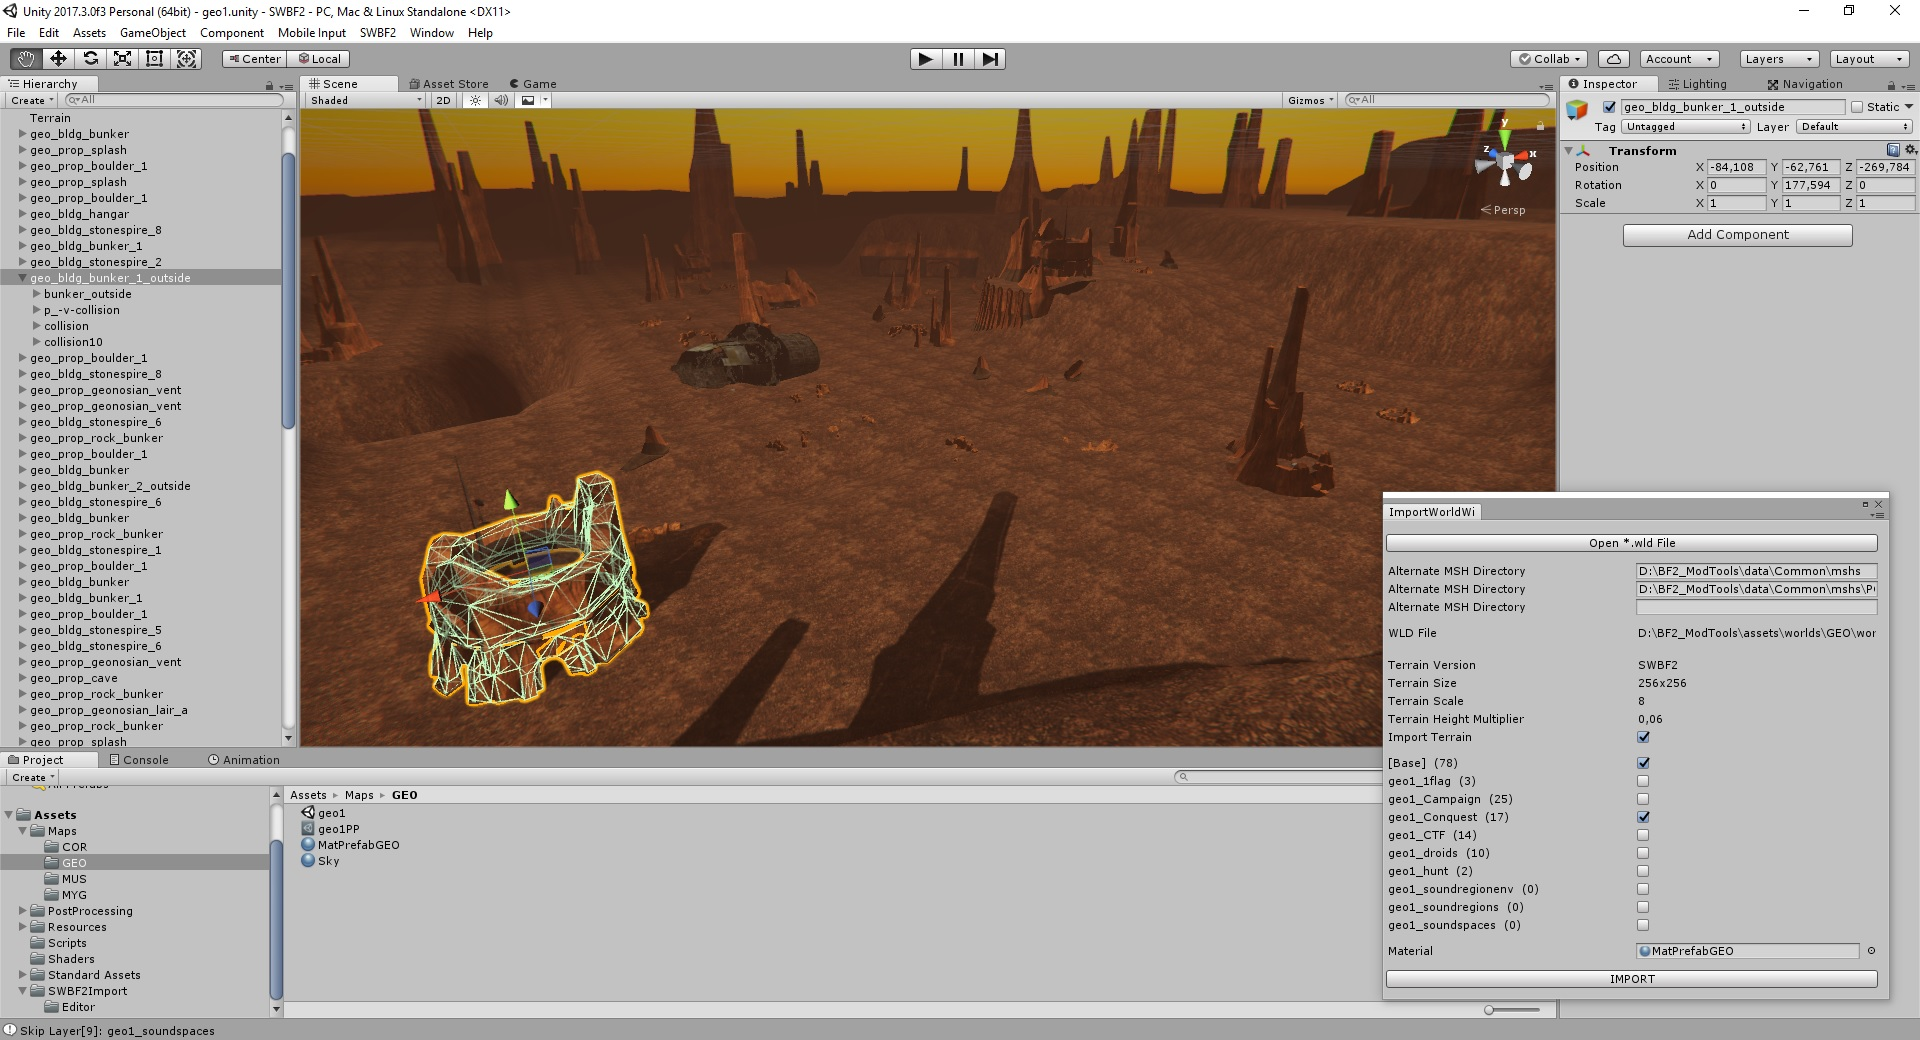
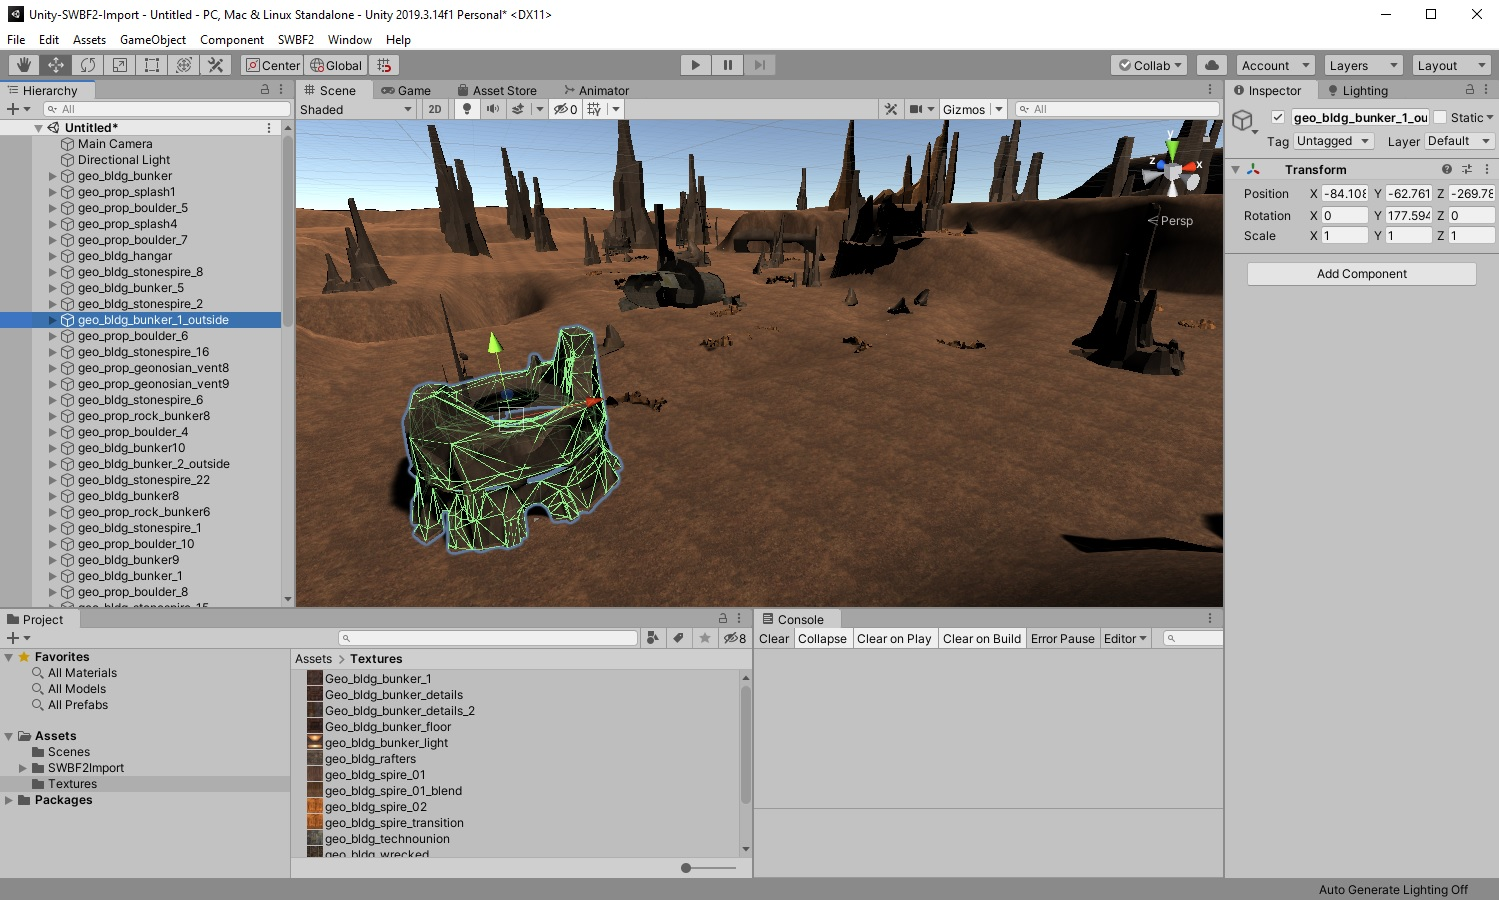
Do not create Model Assets by default. Updated screenshot.

diff --git a/SWBF2Import/SWBF2Import.cs b/SWBF2Import/SWBF2Import.cs
@@ -14,7 +14,7 @@ public static class SWBF2Import {
     public static string MODELS_FOLDER = "/Models";
     public static string TEXTURES_FOLDER = "/Textures";
     //public static string NORMAL_MAP_SUFFIX = "_bump"; //It is normally bump map, You have to fix to normal map in unity. Not 100% accurate. You should change it back to "_normal" if you use custom normals.
-    public static bool CREATE_ASSETS = true;
+    public static bool CREATE_ASSETS = false;
     //public static bool CREATE_MESH_ASSETS = false;
     public static bool IMPORT_TEXTURES = true;
 
